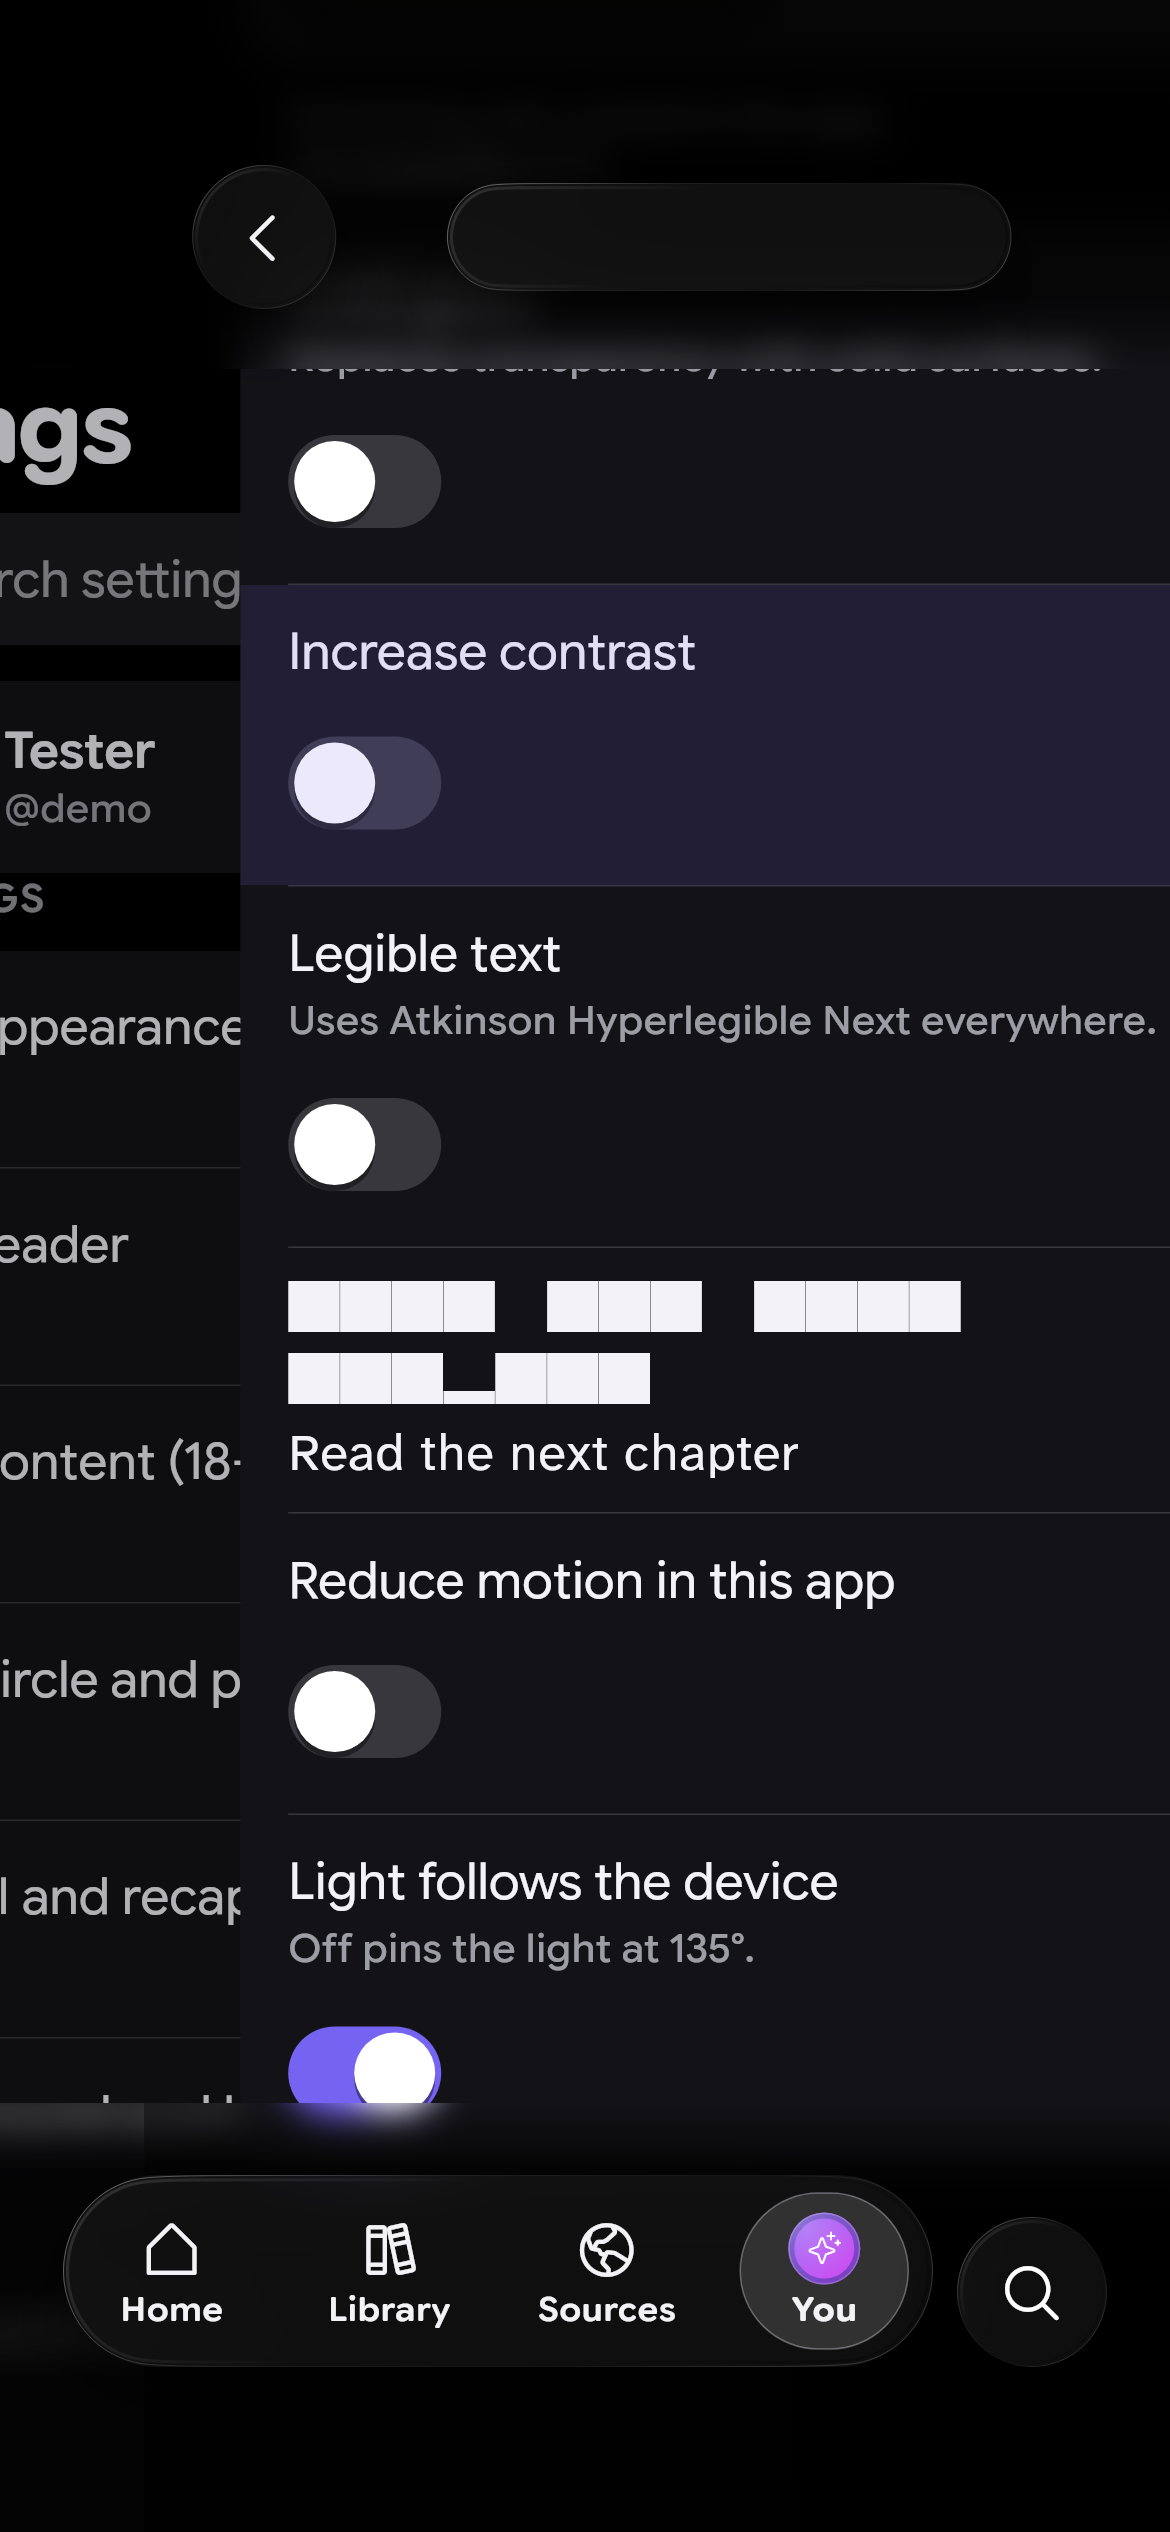
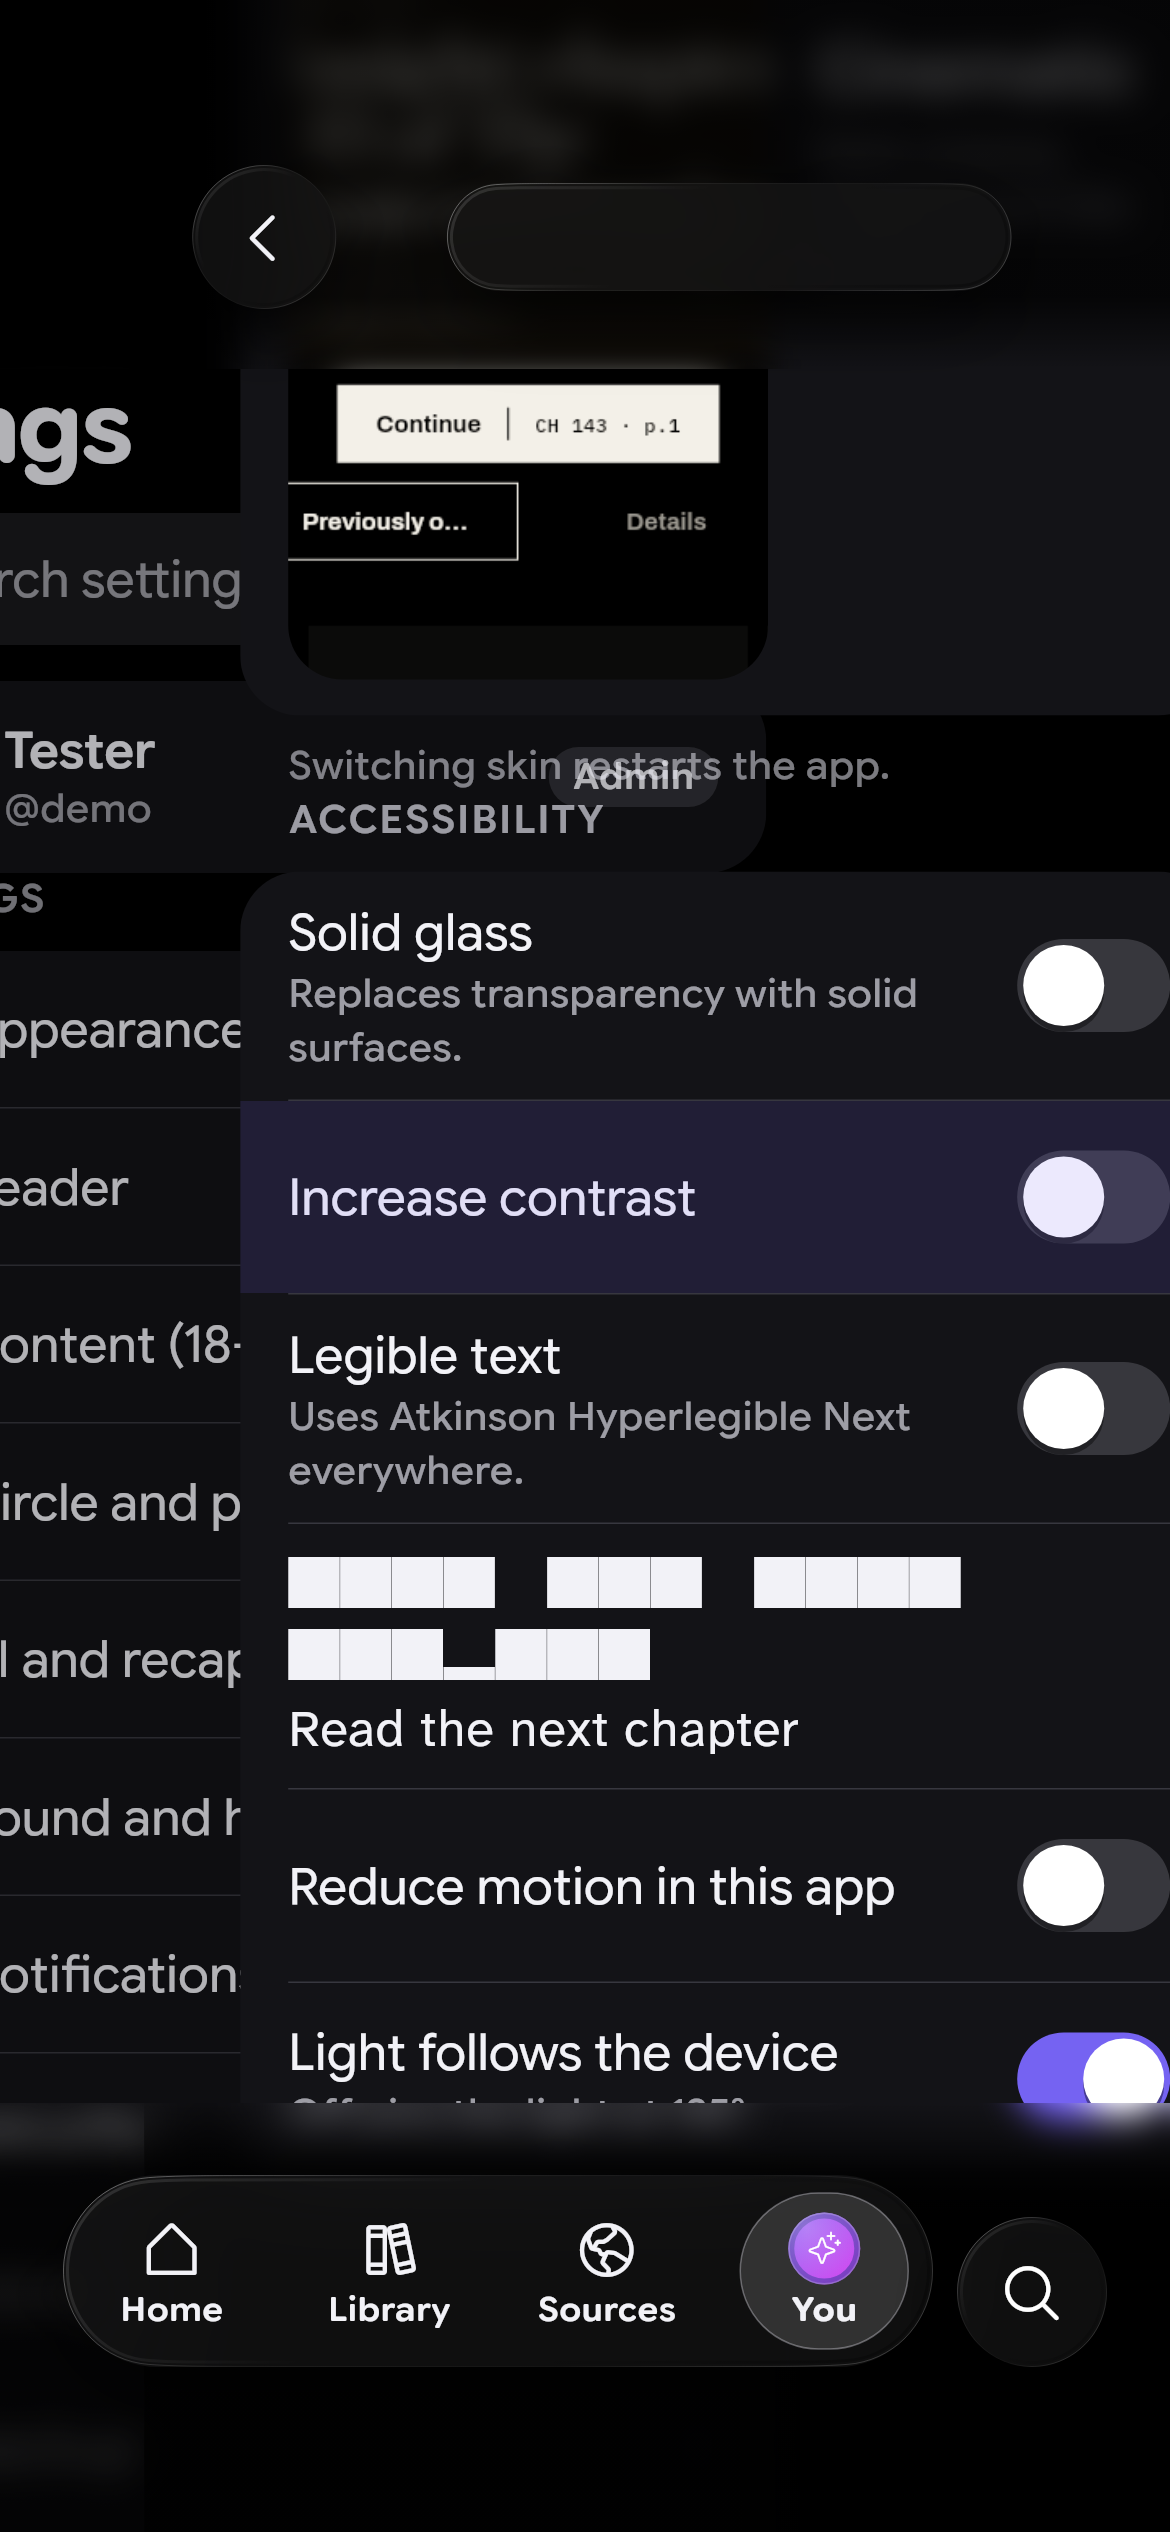
test(mobile-glass): mobile/39 captures for the bloomed alert, its notes, the melt, the arrival toast, the reset hold, haptics off and Circle offline

diff --git a/mobile/test/screenshots/glass/mobile_39_settings_shots_test.dart b/mobile/test/screenshots/glass/mobile_39_settings_shots_test.dart
@@ -1,6 +1,8 @@
 @Tags(['screenshots'])
 library;
 
+import 'dart:async';
+
 import 'package:flutter/foundation.dart';
 import 'package:flutter/services.dart';
 import 'package:flutter/widgets.dart';
@@ -9,10 +11,16 @@ import 'package:flutter_test/flutter_test.dart';
 import 'package:manhwamaniacs/features/auth/models/auth_state.dart';
 import 'package:manhwamaniacs/features/auth/models/auth_user.dart';
 import 'package:manhwamaniacs/features/auth/providers/auth_controller.dart';
+import 'package:manhwamaniacs/features/downloads/providers/active_download_queue_provider.dart';
 import 'package:manhwamaniacs/features/profiles/models/profile.dart';
 import 'package:manhwamaniacs/features/profiles/providers/profiles_providers.dart';
+import 'package:manhwamaniacs/features/settings/providers/settings_provider.dart' show hapticFeedbackProvider;
 import 'package:manhwamaniacs/skins/glass/dev/auth_fixtures.dart' show FakeAuth;
 import 'package:manhwamaniacs/skins/glass/prefs.dart';
+import 'package:manhwamaniacs/skins/glass/primitives/hold_to_confirm.dart';
+import 'package:manhwamaniacs/skins/glass/primitives/toast.dart';
+import 'package:manhwamaniacs/skins/glass/shell/handoff_layer.dart' show glassEffectsProvider;
+import 'package:manhwamaniacs/skins/glass/shell/shell_providers.dart' show glassOfflineProvider;
 
 import '../glass_shell_shots_support.dart';
 import '../support/shot_harness.dart';
@@ -96,11 +104,61 @@ void main() {
     await _end(t);
     s = await _open(t, _phone, '/settings/appearance', reduced: true);
     await s.snap('skin-cards-reduced-motion', _phone);
-    await t.tap(find.text('Cinematic'));
-    await s.settle(800);
+    await _end(t);
+  });
+
+  Future<ShotSession> openAlert(WidgetTester t, {List<Override> extra = const []}) async {
+    final s = await _open(t, _phone, '/settings/appearance', extra: extra);
+    await t.tap(find.text('Cinematic').first);
+    for (var i = 0; i < 4; i++) {
+      await s.settle(300);
+    }
+    return s;
+  }
+
+  testWidgets('the switch alert after its bloom, with the downloads and offline notes, the melt at 300 ms', (t) async {
+    var s = await openAlert(t);
     await s.snap('switch-alert', _phone);
     await t.tap(find.text('Stay in Glass'));
     await s.settle(600);
+    await _end(t);
+    s = await openAlert(t, extra: [activeDownloadCountProvider.overrideWith((ref) => 2), glassOfflineProvider.overrideWithValue(true)]);
+    await s.snap('switch-alert-downloads-offline', _phone);
+    await _end(t);
+    // The melt itself, 300 ms in (the confirm path also queues the PATCH through the sqlite outbox, real IO a widget test cannot pump).
+    s = await _open(t, _phone, '/settings/appearance');
+    unawaited(s.container.read(glassEffectsProvider).playMelt());
+    await t.pump();
+    await t.pump(const Duration(milliseconds: 300));
+    await s.snap('melt-mid', _phone);
+    await _end(t);
+  });
+
+  testWidgets('the arriving Glass side: Switched to Glass with Undo', (t) async {
+    final s = await _open(t, _phone, '/settings/appearance');
+    s.container.read(glassToastProvider.notifier).show(GlassToastSpec('Switched to Glass', undo: () {}));
+    await s.settle(900);
+    await s.snap('arrival-toast', _phone);
+    await _end(t);
+  });
+
+  testWidgets('reset hold mid-way, haptics off, circle offline', (t) async {
+    var s = await _open(t, _phone, '/settings/reading-manga');
+    final hold = find.descendant(of: find.byType(HoldToConfirm), matching: find.text('Reset reader settings')).first;
+    await Scrollable.ensureVisible(t.element(hold), alignment: 0.5);
+    await s.settle(300);
+    final g = await t.startGesture(t.getCenter(hold));
+    await t.pump(const Duration(milliseconds: 600));
+    await s.snap('reset-hold-mid', _phone);
+    await g.cancel();
+    await _end(t);
+    s = await _open(t, _phone, '/settings/feedback');
+    await s.container.read(hapticFeedbackProvider.notifier).setEnabled(false);
+    await s.settle(600);
+    await s.snap('feedback-haptics-off', _phone);
+    await _end(t);
+    s = await _open(t, _phone, '/settings/circle', extra: [glassOfflineProvider.overrideWithValue(true)]);
+    await s.snap('circle-privacy-offline', _phone);
     await _end(t);
   });
 
